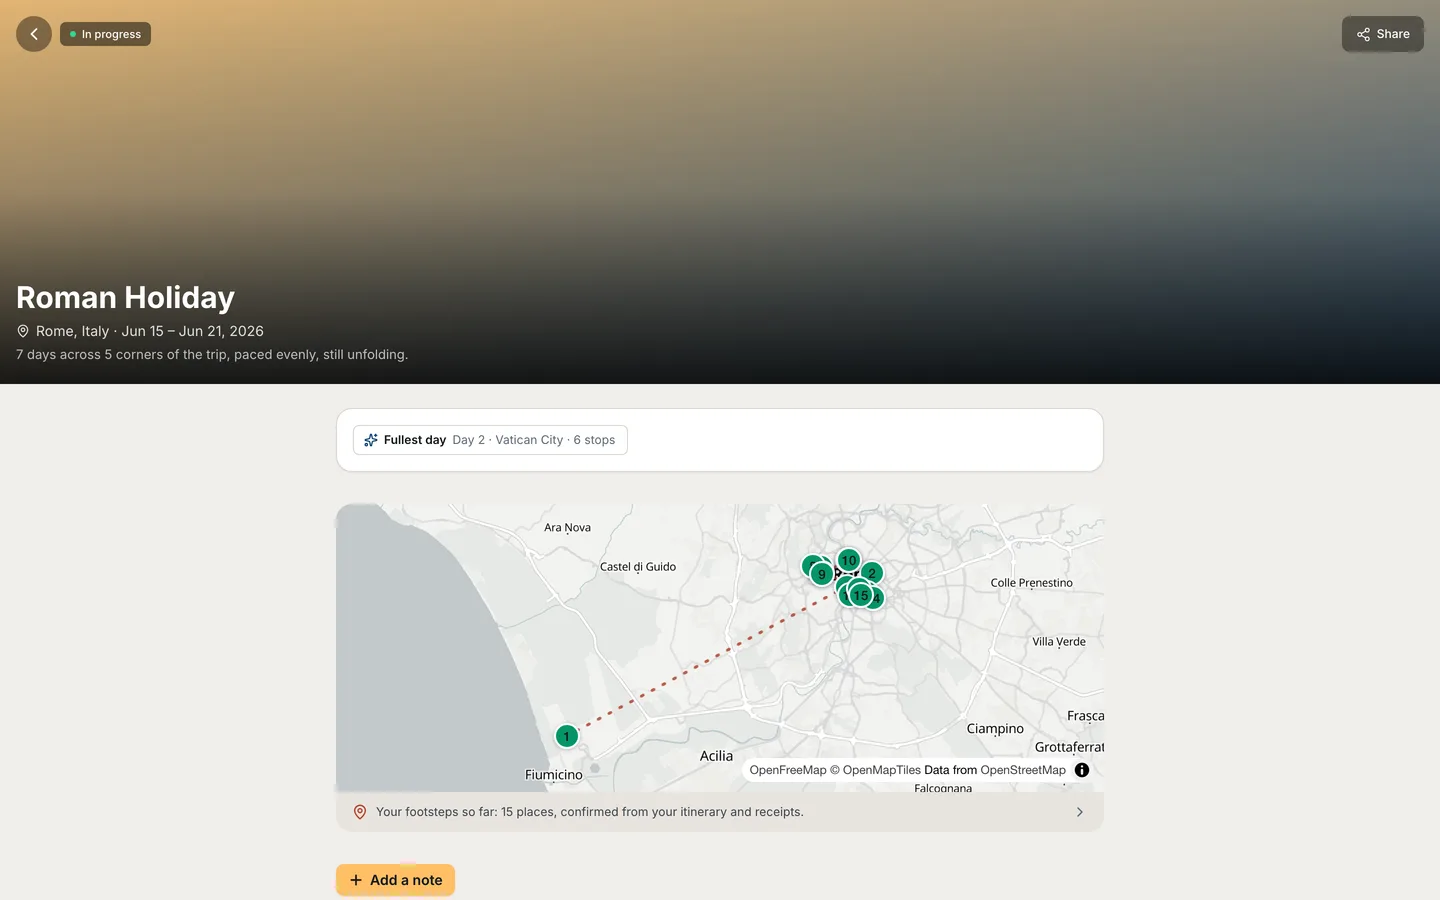
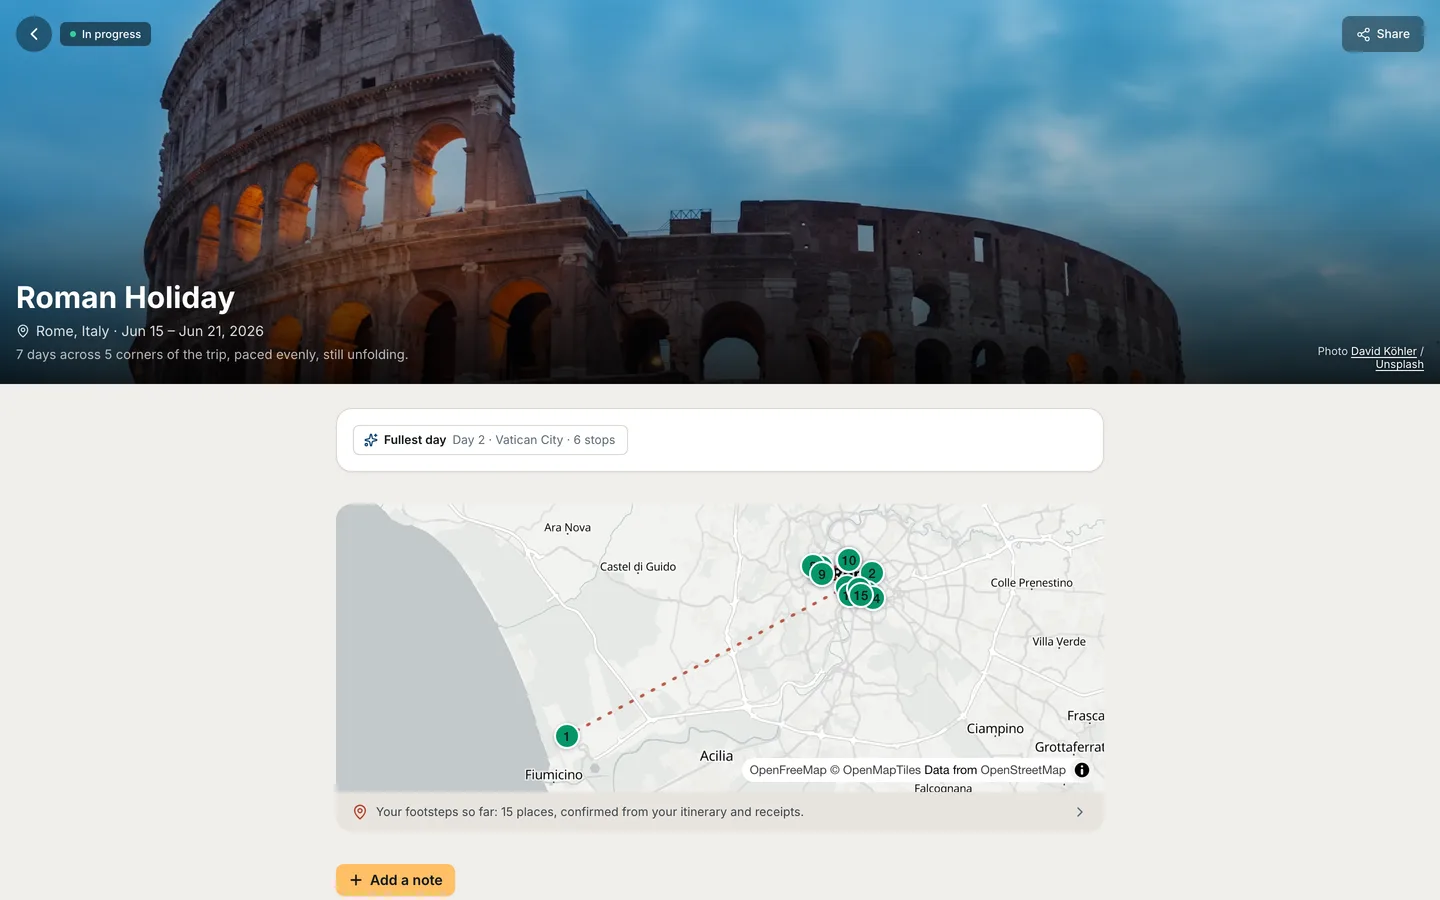
feat(marketing): screenshots show the desktop and phone screens side by side, with the in-app photos [JAR-1438]
Brent's review, 2026-09-14:
- The screenshots show the app's photos where the app shows them. The
  captures were re-run on web-app main (22 of 22 passed); each trip hero
  carries its photo and visible credit.
- Desktop and phone together, side by side (option B of three mockups).

DevicePair replaces AppCapture: the same screen at desktop and phone size,
equal height (grid columns in the two aspect ratios), flat and frameless.
Below 640px only the phone screen shows. Each image keeps a WebP source, a
PNG fallback and its own dimensions, and the phone copy beside the desktop
carries an empty alt so the description is read once.

diff --git a/src/app/components/DevicePair.tsx b/src/app/components/DevicePair.tsx
@@ -1,0 +1,83 @@
+// ============================================================================
+// JARVISTRAVEL MARKETING - DEVICE PAIR
+//
+// One app screen at desktop and at phone size, side by side and the same
+// height. Flat and frameless (NINE's ledge): no bezel, no tilt, no shadow.
+//
+// Phones get the phone capture alone. Two screens squeezed into 360px are two
+// screens nobody can read.
+//
+// NO VISIBLE CAPTION. The alt says what the screen shows, for screen readers;
+// a caption announcing "a screenshot of the app" is the disclaimer the copy
+// rules forbid (jarvistravel-copy rule 8). It is read once: the phone beside
+// the desktop is the same screen, so that copy carries an empty alt.
+// ============================================================================
+
+import type { AppCaptureImage } from '../data/appCaptures';
+
+interface DevicePairProps {
+  image: AppCaptureImage;
+  /** What the screen shows, in the site's voice. */
+  alt: string;
+  /** The navy ledge needs no edge; on the light page a hairline keeps the screens' shape. */
+  ground: 'plane' | 'page';
+  /** The desktop screen's rendered width, for the browser's srcset pick. */
+  sizes: string;
+}
+
+const PHONE_SIZES = '(min-width: 1024px) 220px, 22vw';
+
+export function DevicePair({ image, alt, ground, sizes }: DevicePairProps) {
+  // A ring, not a border: a border adds 2px to each box, which is 2.2x more
+  // height on the tall phone than on the wide desktop, and the pair stops
+  // lining up (measured 301px against 298px). A ring takes no layout space.
+  const edge = ground === 'page' ? 'ring-1 ring-gray-200' : '';
+
+  return (
+    <>
+      {/* Below `sm`: the phone screen alone, carrying the description. */}
+      <picture className="sm:hidden">
+        <source type="image/webp" srcSet={image.phone} sizes="300px" />
+        <img
+          src={image.fallback}
+          alt={alt}
+          width={390}
+          height={844}
+          loading="lazy"
+          decoding="async"
+          className={`mx-auto block h-auto w-full max-w-[300px] rounded-[18px] ${edge}`}
+        />
+      </picture>
+
+      {/* Column widths in the two aspect ratios (1440:900 and 390:844), so both
+          screens come out the same height. */}
+      <div className="hidden sm:grid grid-cols-[1.6fr_0.462fr] items-end gap-4 lg:gap-6">
+        <picture>
+          <source type="image/webp" srcSet={image.desktop} sizes={sizes} />
+          <img
+            src={image.fallback}
+            alt={alt}
+            width={1440}
+            height={900}
+            loading="lazy"
+            decoding="async"
+            className={`block h-auto w-full rounded-[14px] ${edge}`}
+          />
+        </picture>
+        <picture>
+          <source type="image/webp" srcSet={image.phone} sizes={PHONE_SIZES} />
+          <img
+            src={image.fallback}
+            alt=""
+            aria-hidden="true"
+            width={390}
+            height={844}
+            loading="lazy"
+            decoding="async"
+            className={`block h-auto w-full rounded-[18px] ${edge}`}
+          />
+        </picture>
+      </div>
+    </>
+  );
+}

diff --git a/src/app/pages/FeaturesPage.tsx b/src/app/pages/FeaturesPage.tsx
@@ -1,5 +1,5 @@
 import { Link } from 'react-router-dom';
-import { AppCapture } from '../components/AppCapture';
+import { DevicePair } from '../components/DevicePair';
 import {
   DAY_DETAIL,
   DAY_ROUTE,
@@ -184,12 +184,14 @@ export function FeaturesPage() {
               ))}
             </svg>
 
-            <AppCapture
-              image={DAY_DETAIL}
-              alt="A week in Rome in the trip plan. Day one is rated balanced, with a note on why it is full but manageable, and its stops in order from a 9:30 airport arrival."
-              sizes="(min-width: 1024px) 848px, calc(100vw - 120px)"
-              className="relative"
-            />
+            <div className="relative">
+              <DevicePair
+                image={DAY_DETAIL}
+                alt="A week in Rome in the trip plan. Day one is rated balanced, with a note on why it is full but manageable, and its stops in order from a 9:30 airport arrival."
+                ground="plane"
+                sizes="(min-width: 1024px) 650px, 60vw"
+              />
+            </div>
           </div>
         </div>
       </section>
@@ -216,12 +218,14 @@ export function FeaturesPage() {
                   <p className="text-gray-600 leading-relaxed mb-3">{moment.desc}</p>
                   <p className="font-medium text-gray-900">{moment.soWhat}</p>
                   {moment.capture && (
-                    <AppCapture
-                      image={moment.capture.image}
-                      alt={moment.capture.alt}
-                      sizes="(min-width: 768px) 644px, calc(100vw - 100px)"
-                      className="mt-6 border border-gray-200"
-                    />
+                    <div className="mt-6">
+                      <DevicePair
+                        image={moment.capture.image}
+                        alt={moment.capture.alt}
+                        ground="page"
+                        sizes="(min-width: 768px) 490px, 60vw"
+                      />
+                    </div>
                   )}
                 </div>
               </li>

diff --git a/src/app/pages/HomePage.tsx b/src/app/pages/HomePage.tsx
@@ -9,7 +9,7 @@ import {
 } from 'lucide-react';
 import { Link } from 'react-router-dom';
 import { PhotoBackdrop } from '../components/PhotoBackdrop';
-import { AppCapture } from '../components/AppCapture';
+import { DevicePair } from '../components/DevicePair';
 import { TRIP_HOME } from '../data/appCaptures';
 import type { LucideIcon } from 'lucide-react';
 
@@ -217,15 +217,17 @@ export function HomePage() {
               rather not juggle, in one place.
             </p>
           </div>
-          {/* The claim, shown: the app's own trip screen, flat on a solid plane. */}
+          {/* The claim, shown: the app's own trip screen at desktop and phone size, flat on a solid plane. */}
           <div className="relative overflow-hidden rounded-[20px] bg-sky-600 p-4 sm:p-8 md:p-12 mb-12">
             <ContourArcs className="absolute -bottom-56 -right-40 w-[520px] h-[520px]" />
-            <AppCapture
-              image={TRIP_HOME}
-              alt="A trip's home screen for a week in Rome: today's schedule, what is left of the budget, and the week's pacing, with two days running packed."
-              sizes="(min-width: 1152px) 992px, calc(100vw - 160px)"
-              className="relative"
-            />
+            <div className="relative">
+              <DevicePair
+                image={TRIP_HOME}
+                alt="A trip's home screen for a week in Rome: today's schedule, what is left of the budget, and the week's pacing, with two days running packed."
+                ground="plane"
+                sizes="(min-width: 1152px) 760px, 60vw"
+              />
+            </div>
           </div>
           <div className="grid sm:grid-cols-2 lg:grid-cols-3 gap-6">
             {FEATURES.map((feature) => {

diff --git a/src/app/components/index.ts b/src/app/components/index.ts
@@ -3,4 +3,4 @@ export { Footer } from './Footer';
 export { LogoLockup, LogoWordmark, LogoIcon } from './Logo';
 export { PhotoBackdrop } from './PhotoBackdrop';
 export { PhotoCredit } from './PhotoCredit';
-export { AppCapture } from './AppCapture';
+export { DevicePair } from './DevicePair';
